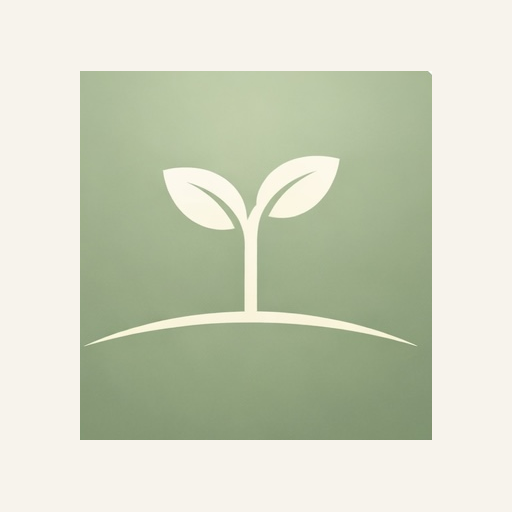
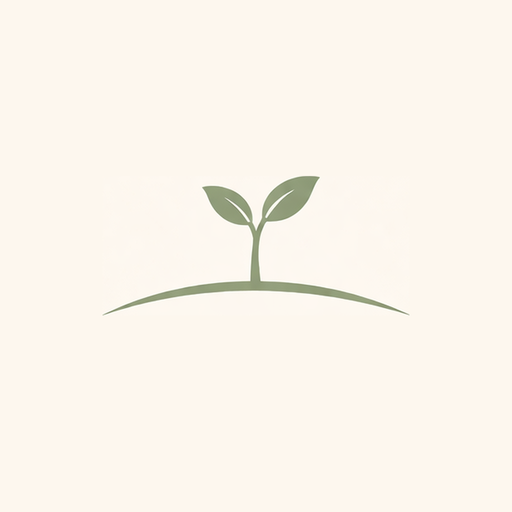
the sprout ret

diff --git a/src/components/SproutMark.jsx b/src/components/SproutMark.jsx
@@ -1,9 +1,55 @@
 // src/components/SproutMark.jsx
-// The Tend sprout icon — sage on transparent background
-// Matches the uploaded app icon: sprouting plant with two leaves rising from earth
-// Use this everywhere the botanical tree SVG was used
+// The Tend botanical — a hand-drawn wildflower sprig in line art,
+// matching the sage cover cards: slender stem, leaf pairs, small
+// five-petal blooms and a bud. Pure strokes; scales anywhere.
 
-export default function SproutMark({ size = 52, color = "#93A388" }) {
+// The bare sprig art (a <g>, 100x100 space) — reusable inside other SVGs.
+export function SprigPaths({ color = "#93A388" }) {
+  const petal = (cx, cy, r) => {
+    // five small petal circles around a center
+    const pts = [];
+    for (let i = 0; i < 5; i++) {
+      const a = (Math.PI * 2 * i) / 5 - Math.PI / 2;
+      pts.push([cx + Math.cos(a) * r * 1.9, cy + Math.sin(a) * r * 1.9]);
+    }
+    return (
+      <g key={`${cx}-${cy}`}>
+        {pts.map(([x, y], i) => (
+          <circle key={i} cx={x} cy={y} r={r} stroke={color} strokeWidth="1.6" fill="none" />
+        ))}
+        <circle cx={cx} cy={cy} r={r * 0.55} stroke={color} strokeWidth="1.4" fill="none" />
+      </g>
+    );
+  };
+
+  return (
+    <g>
+      {/* main stem */}
+      <path d="M50 92 C47 74 48 52 53 30" stroke={color} strokeWidth="2" strokeLinecap="round" fill="none" />
+      {/* branch to the tall bloom */}
+      <path d="M53 30 C54 26 56 23 58 21" stroke={color} strokeWidth="1.8" strokeLinecap="round" fill="none" />
+      {/* branch to the side bloom */}
+      <path d="M51 42 C48 34 45 27 43 21" stroke={color} strokeWidth="1.8" strokeLinecap="round" fill="none" />
+      {/* branch to the bud */}
+      <path d="M52 36 C57 34 61 33 64 33" stroke={color} strokeWidth="1.6" strokeLinecap="round" fill="none" />
+
+      {/* leaves — slender outlines, alternating */}
+      <path d="M49.5 72 C42 70 36.5 65 34.5 58 C42 60.5 47 65.5 49.5 72 Z"
+        stroke={color} strokeWidth="1.7" strokeLinejoin="round" fill="none" />
+      <path d="M50.5 63 C58 61 63.5 56 65.5 49 C58 51.5 53 56.5 50.5 63 Z"
+        stroke={color} strokeWidth="1.7" strokeLinejoin="round" fill="none" />
+      <path d="M49 53 C43 51 39 46.5 37.5 41 C43.5 43 47.5 47.5 49 53 Z"
+        stroke={color} strokeWidth="1.7" strokeLinejoin="round" fill="none" />
+
+      {/* blooms + bud */}
+      {petal(58, 16, 2.6)}
+      {petal(42, 15, 2.2)}
+      <circle cx="66.5" cy="32.5" r="2" stroke={color} strokeWidth="1.6" fill="none" />
+    </g>
+  );
+}
+
+export default function SproutMark({ size = 52, color = "#5C6B4F" }) {
   return (
     <svg
       width={size}
@@ -13,81 +59,7 @@ export default function SproutMark({ size = 52, color = "#93A388" }) {
       xmlns="http://www.w3.org/2000/svg"
       style={{ display: "block" }}
     >
-      {/* Earth curve */}
-      <path
-        d="M18 72 Q50 62 82 72"
-        stroke={color}
-        strokeWidth="2.5"
-        strokeLinecap="round"
-        fill="none"
-      />
-
-      {/* Stem */}
-      <line
-        x1="50" y1="70"
-        x2="50" y2="38"
-        stroke={color}
-        strokeWidth="2.5"
-        strokeLinecap="round"
-      />
-
-      {/* Left leaf */}
-      <path
-        d="M50 52 Q36 44 32 30 Q44 30 50 44"
-        stroke={color}
-        strokeWidth="2"
-        strokeLinecap="round"
-        strokeLinejoin="round"
-        fill={color}
-        fillOpacity="0.18"
-      />
-      {/* Left leaf vein */}
-      <path
-        d="M50 50 Q41 43 34 31"
-        stroke={color}
-        strokeWidth="1"
-        strokeLinecap="round"
-        opacity="0.5"
-      />
-
-      {/* Right leaf */}
-      <path
-        d="M50 52 Q64 44 68 30 Q56 30 50 44"
-        stroke={color}
-        strokeWidth="2"
-        strokeLinecap="round"
-        strokeLinejoin="round"
-        fill={color}
-        fillOpacity="0.18"
-      />
-      {/* Right leaf vein */}
-      <path
-        d="M50 50 Q59 43 66 31"
-        stroke={color}
-        strokeWidth="1"
-        strokeLinecap="round"
-        opacity="0.5"
-      />
-
-      {/* Top bud */}
-      <path
-        d="M50 38 Q44 28 46 20 Q52 22 50 38"
-        stroke={color}
-        strokeWidth="1.8"
-        strokeLinecap="round"
-        strokeLinejoin="round"
-        fill={color}
-        fillOpacity="0.15"
-      />
-      <path
-        d="M50 38 Q56 28 54 20 Q48 22 50 38"
-        stroke={color}
-        strokeWidth="1.8"
-        strokeLinecap="round"
-        strokeLinejoin="round"
-        fill={color}
-        fillOpacity="0.15"
-      />
+      <SprigPaths color={color} />
     </svg>
   );
 }

diff --git a/src/screens/HomeScreen.jsx b/src/screens/HomeScreen.jsx
@@ -97,26 +97,23 @@ function addDays(date, n) {
 }
 
 export function PremiumModal({ onClose }) {
+  // Free = live one beautiful day with Tend. Premium = keep a family's whole year.
   const FREE_FEATURES = [
-    "Daily schedule — one repeating template",
-    "Outdoor time tracker toward your weekly goal",
+    "The calm daily rhythm — what's now, what's next, minutes left",
+    "Evening Close — thirty seconds of keeping, every night",
+    "Focus timer, gentle nudges, and Mother Culture check-ins",
+    "Lunch decided for you · calendar appointments in your day",
+    "First month of habit training · starter nature topics",
     "Consider the Lilies — up to 3 journal entries",
-    "One habit focus (Attention) with today's ideas",
-    "5 free narration sessions",
     "One student profile",
-    "Daily Mother Culture prompt",
-    "CM quote of the day",
   ];
   const PREMIUM_FEATURES = [
-    "Full weekly planner — different schedule per day, editable blocks",
-    "Week grid view — see your whole week at a glance",
-    "Beauty Loop anchored to your daily subjects",
-    "Term counter with rest week gentle rhythm",
-    "All five Charlotte Mason habits with 12-week reflection",
+    "Records that write themselves — your Evening Close becomes the Teaching Record, and the Annual Report assembles your CM transcript",
+    "The full weekly planner — editable blocks, co-op day switch, rest weeks, term counter",
+    "Both habit-training terms — six months of Laying Down the Rails lessons",
+    "Two full years of seasonal nature study",
+    "Unlimited children, with narration history for each",
     "Unlimited Consider the Lilies entries for every family member",
-    "Unlimited narration sessions with AI coaching",
-    "Unlimited student profiles with narration history",
-    "Full rotating Mother Culture prompt bank",
   ];
   return (
     <div style={{ position: "fixed", inset: 0, background: "rgba(44,42,39,.5)", zIndex: 300, display: "flex", alignItems: "flex-end", justifyContent: "center" }} onClick={onClose}>
@@ -148,6 +145,12 @@ export function PremiumModal({ onClose }) {
             </div>
           ))}
         </div>
+        <p style={{ fontFamily: "'Playfair Display', serif", fontSize: 20, color: "var(--ink)", textAlign: "center", marginBottom: 2 }}>
+          $29 <span style={{ fontSize: 13, color: "var(--ink-faint)" }}>/ year</span>
+        </p>
+        <p style={{ fontFamily: "'Cormorant Garamond', serif", fontStyle: "italic", fontSize: 13, color: "var(--gold)", textAlign: "center", marginBottom: 16 }}>
+          founding price $24 for the first term — keep your family's whole year
+        </p>
         <a href="https://delightnsavor.gumroad.com/l/qrxxi" target="_blank" rel="noopener noreferrer" style={{ display: "block", background: "var(--sage)", borderRadius: 2, padding: "14px 0", width: "100%", fontSize: 11, fontFamily: "'Lato', sans-serif", letterSpacing: ".14em", textTransform: "uppercase", color: "white", textAlign: "center", textDecoration: "none", marginBottom: 12 }}>
           Join Tend Premium {"→"}
         </a>

diff --git a/src/screens/MenuScreen.jsx b/src/screens/MenuScreen.jsx
@@ -1,23 +1,16 @@
-// Inline Tend logo — no external component dependency
+// Tend logo — the wildflower sprig from the cover cards
+import { SprigPaths } from "../components/SproutMark";
+
 function TendMark() {
+  // The interior mark — deliberately bolder than the app icon's seedling:
+  // deep-sage sprig on warm cream, ringed in gold so it stands out on the page.
   return (
-    <svg width="64" height="64" viewBox="0 0 64 64" fill="none" style={{ display: "block", margin: "0 auto" }}>
-      <circle cx="32" cy="32" r="30" stroke="#93A388" strokeWidth="1" fill="#F7F3EC"/>
-      <line x1="32" y1="52" x2="32" y2="14" stroke="#93A388" strokeWidth="1.2" strokeLinecap="round"/>
-      <line x1="32" y1="44" x2="24" y2="40" stroke="#93A388" strokeWidth="1" strokeLinecap="round"/>
-      <line x1="32" y1="44" x2="40" y2="40" stroke="#93A388" strokeWidth="1" strokeLinecap="round"/>
-      <line x1="32" y1="38" x2="23" y2="33" stroke="#93A388" strokeWidth="1" strokeLinecap="round"/>
-      <line x1="32" y1="38" x2="41" y2="33" stroke="#93A388" strokeWidth="1" strokeLinecap="round"/>
-      <line x1="32" y1="32" x2="24" y2="27" stroke="#93A388" strokeWidth="1" strokeLinecap="round"/>
-      <line x1="32" y1="32" x2="40" y2="27" stroke="#93A388" strokeWidth="1" strokeLinecap="round"/>
-      <line x1="32" y1="26" x2="25" y2="21" stroke="#93A388" strokeWidth="1" strokeLinecap="round"/>
-      <line x1="32" y1="26" x2="39" y2="21" stroke="#93A388" strokeWidth="1" strokeLinecap="round"/>
-      <circle cx="32" cy="14" r="2" fill="#93A388"/>
-      <circle cx="24" cy="40" r="1.2" fill="#93A388"/><circle cx="40" cy="40" r="1.2" fill="#93A388"/>
-      <circle cx="23" cy="33" r="1.2" fill="#93A388"/><circle cx="41" cy="33" r="1.2" fill="#93A388"/>
-      <circle cx="24" cy="27" r="1.2" fill="#93A388"/><circle cx="40" cy="27" r="1.2" fill="#93A388"/>
-      <circle cx="25" cy="21" r="1.2" fill="#93A388"/><circle cx="39" cy="21" r="1.2" fill="#93A388"/>
-      <text x="32" y="58" textAnchor="middle" fontFamily="Georgia, serif" fontSize="5" fill="#93A388" fontStyle="italic" letterSpacing="0.08em">tend</text>
+    <svg width="84" height="84" viewBox="0 0 84 84" fill="none" style={{ display: "block", margin: "0 auto" }}>
+      <circle cx="42" cy="42" r="40" stroke="#C49A4E" strokeWidth="1.25" fill="#FDF7EE"/>
+      <circle cx="42" cy="42" r="36" stroke="#E3D9C2" strokeWidth="0.75" fill="none"/>
+      <g transform="translate(9.5, 8) scale(0.65)">
+        <SprigPaths color="#5C6B4F" />
+      </g>
     </svg>
   );
 }

diff --git a/src/screens/StudentsScreen.jsx b/src/screens/StudentsScreen.jsx
@@ -283,11 +283,23 @@ export default function StudentsScreen({ onNavigate, settings }) {
         </button>
       ))}
 
-      {/* Add student */}
-      <button onClick={() => setShowAdd(true)}
-        style={{ width: "100%", display: "flex", alignItems: "center", justifyContent: "center", gap: 8, padding: "16px 0", marginTop: 8, background: "none", border: "1px dashed var(--rule)", borderRadius: 3, cursor: "pointer", color: "var(--ink-faint)", fontSize: 13, fontFamily: "'Cormorant Garamond', serif", fontStyle: "italic" }}>
-        + Add a student
-      </button>
+      {/* Add student — one child free, the whole family with Premium */}
+      {(settings?.isPaid || students.length < 1) ? (
+        <button onClick={() => setShowAdd(true)}
+          style={{ width: "100%", display: "flex", alignItems: "center", justifyContent: "center", gap: 8, padding: "16px 0", marginTop: 8, background: "none", border: "1px dashed var(--rule)", borderRadius: 3, cursor: "pointer", color: "var(--ink-faint)", fontSize: 13, fontFamily: "'Cormorant Garamond', serif", fontStyle: "italic" }}>
+          + Add a student
+        </button>
+      ) : (
+        <div style={{ width: "100%", padding: "16px 18px", marginTop: 8, background: "var(--gold-bg)", border: "1px solid var(--rule)", borderRadius: 3, textAlign: "center" }}>
+          <p style={{ fontFamily: "'Cormorant Garamond', serif", fontStyle: "italic", fontSize: 14, color: "var(--ink-lt)", lineHeight: 1.6, margin: "0 0 4px" }}>
+            One student is free. The whole family comes with Premium —
+          </p>
+          <a href="https://delightnsavor.gumroad.com/l/qrxxi" target="_blank" rel="noopener noreferrer"
+            style={{ fontFamily: "'Lato', sans-serif", fontSize: 10, letterSpacing: ".12em", textTransform: "uppercase", color: "var(--sage)", textDecoration: "none" }}>
+            Join Tend Premium →
+          </a>
+        </div>
+      )}
 
       <p className="corm italic" style={{ textAlign: "center", marginTop: 32, fontSize: 15, color: "var(--ink-faint)", lineHeight: 1.7 }}>
         "Every child is a person."<br />— Charlotte Mason

diff --git a/src/screens/EveningCloseScreen.jsx b/src/screens/EveningCloseScreen.jsx
@@ -106,8 +106,10 @@ export default function EveningCloseScreen({ onNavigate, settings }) {
     saveMC(mc, key); // keep the shared check-in record in agreement
     saveEntry(key, { done, delight: delight.trim(), mc, keptAt: new Date().toISOString() });
     setKept(true);
-    // fire-and-forget: the kept day becomes Teaching Record entries
-    syncToRecords(settings?.userId, key, blocks, done, delight.trim(), mc).then(setSynced);
+    // Premium: the kept day becomes Teaching Record entries automatically
+    if (settings?.isPaid) {
+      syncToRecords(settings?.userId, key, blocks, done, delight.trim(), mc).then(setSynced);
+    }
   };
 
   const dateLabel = today.toLocaleDateString("en-US", { weekday: "long", month: "long", day: "numeric" });
@@ -127,6 +129,12 @@ export default function EveningCloseScreen({ onNavigate, settings }) {
         {synced && (
           <p style={{ fontFamily: "'Lato', sans-serif", fontSize: 10, letterSpacing: ".12em", textTransform: "uppercase", color: "var(--sage)", marginBottom: 22 }}>
             ✓ written into your teaching record
+          </p>
+        )}
+        {!settings?.isPaid && (
+          <p style={{ fontFamily: "'Cormorant Garamond', serif", fontStyle: "italic", fontSize: 13, color: "var(--ink-faint)", marginBottom: 22, lineHeight: 1.6 }}>
+            With Premium, tonight's keeping is written into your Teaching Record for you —
+            records that write themselves, all year.
           </p>
         )}
         <button className="btn-sage" style={{ maxWidth: 240, margin: "0 auto" }} onClick={() => onNavigate("home")}>

diff --git a/src/screens/HabitScreen.jsx b/src/screens/HabitScreen.jsx
@@ -82,7 +82,10 @@ const isLessonComplete = (progress, monthId, lessonNum) => {
 // Months unlock in sequence WITHIN their own term. The first month of
 // each term is always open; later months unlock when the previous month
 // in that same term is fully complete.
-const isMonthUnlocked = (progress, termMonths, monthIdxInTerm) => {
+const isMonthUnlocked = (progress, termMonths, monthIdxInTerm, isPaid = true, termNumber = 1) => {
+  // Free tier: the first month of the first term is a complete, real taste.
+  // Everything beyond it is Premium.
+  if (!isPaid) return termNumber === 1 && monthIdxInTerm === 0;
   if (monthIdxInTerm === 0) return true;
   const prevMonth = termMonths[monthIdxInTerm - 1];
   const completed = progress[prevMonth.id] || [];
@@ -97,7 +100,7 @@ const getMonthProgress = (progress, month) => {
 // ─── TERM OVERVIEW ────────────────────────────────────────────────────
 // Renders every term in TERMS, each with its own header, arc strip,
 // and month list. Months unlock within their own term independently.
-function TermOverview({ progress, onSelectMonth }) {
+function TermOverview({ progress, onSelectMonth, isPaid = true }) {
   return (
     <div className="screen">
       <div style={{ marginBottom: 32 }}>
@@ -210,7 +213,7 @@ function TermOverview({ progress, onSelectMonth }) {
             {/* Month list */}
             <div>
               {termMonths.map((month, idx) => {
-                const unlocked = isMonthUnlocked(progress, termMonths, idx);
+                const unlocked = isMonthUnlocked(progress, termMonths, idx, isPaid, term.number);
                 const { completed, total } = getMonthProgress(progress, month);
                 const isComplete = total > 0 && completed === total;
                 const isCurrent = unlocked && !isComplete;
@@ -1202,7 +1205,7 @@ export default function HabitTermScreen({ settings }) {
   };
 
   if (view.level === "term") {
-    return <TermOverview progress={progress} onSelectMonth={handleSelectMonth} />;
+    return <TermOverview progress={progress} onSelectMonth={handleSelectMonth} isPaid={settings?.isPaid || false} />;
   }
 
   const month = HABIT_MONTHS.find((m) => m.id === view.monthId);